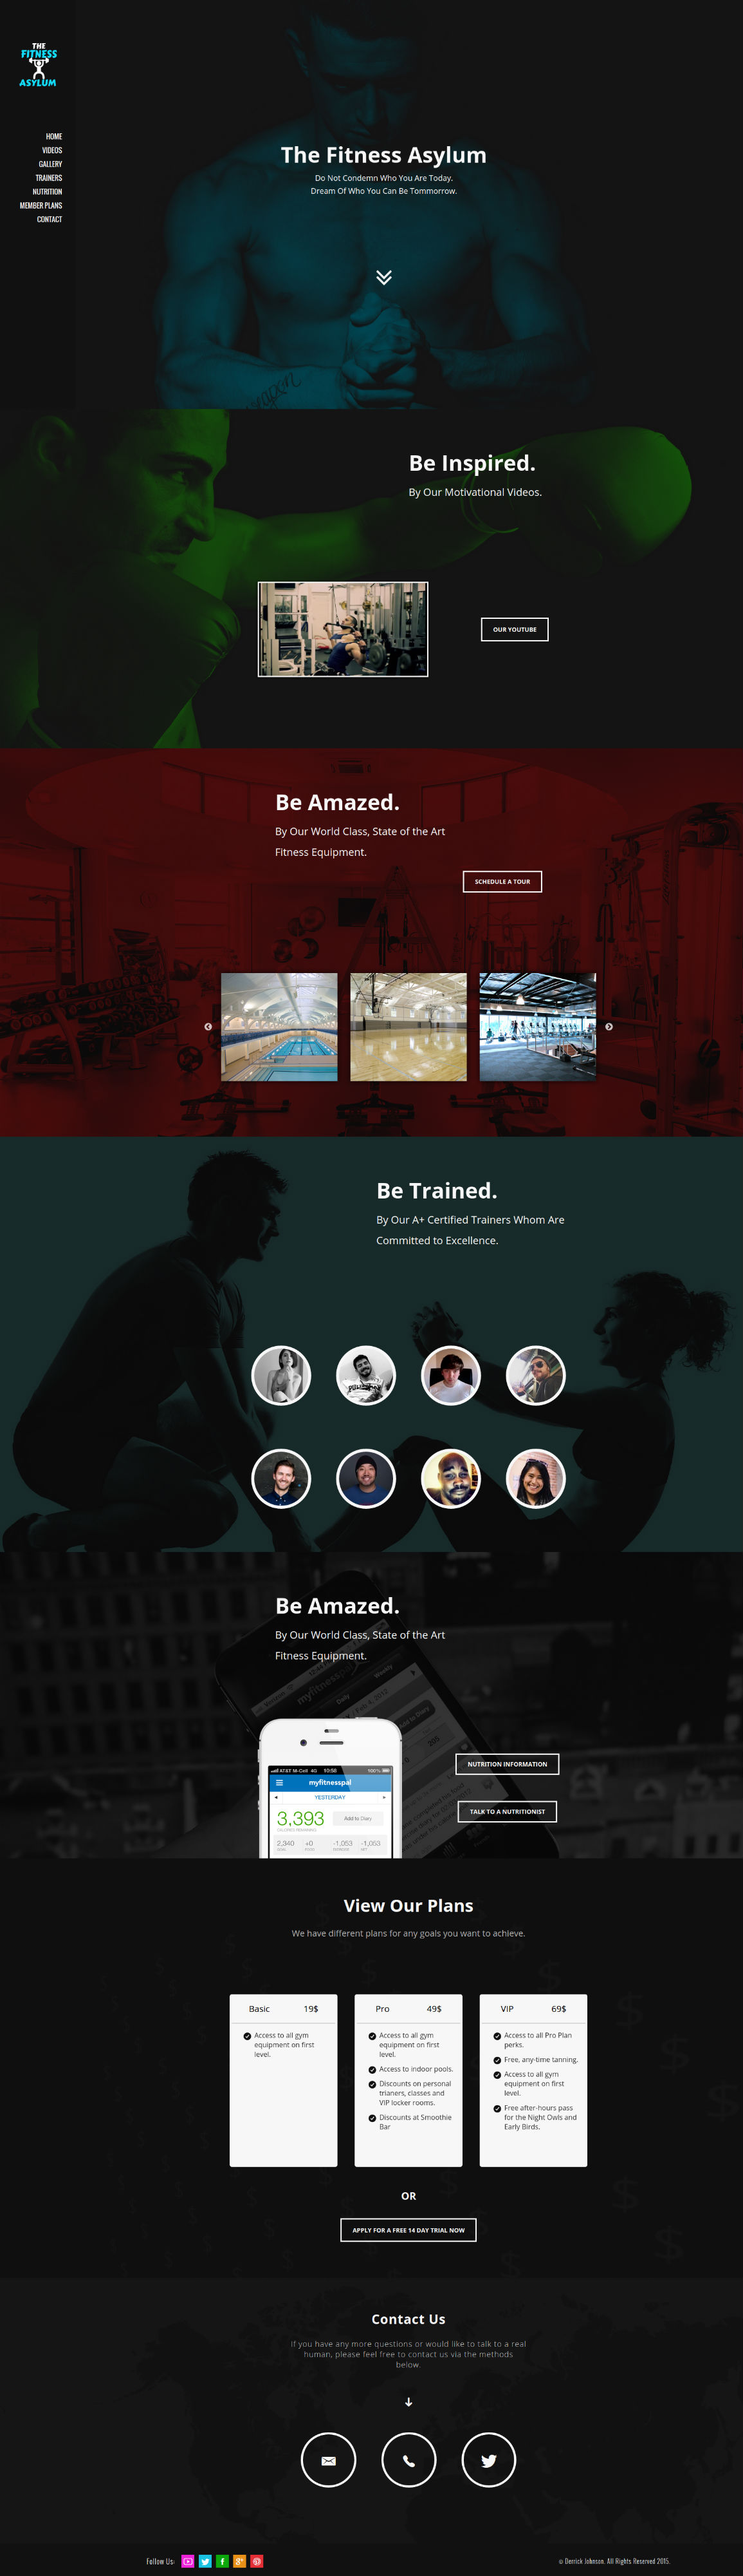
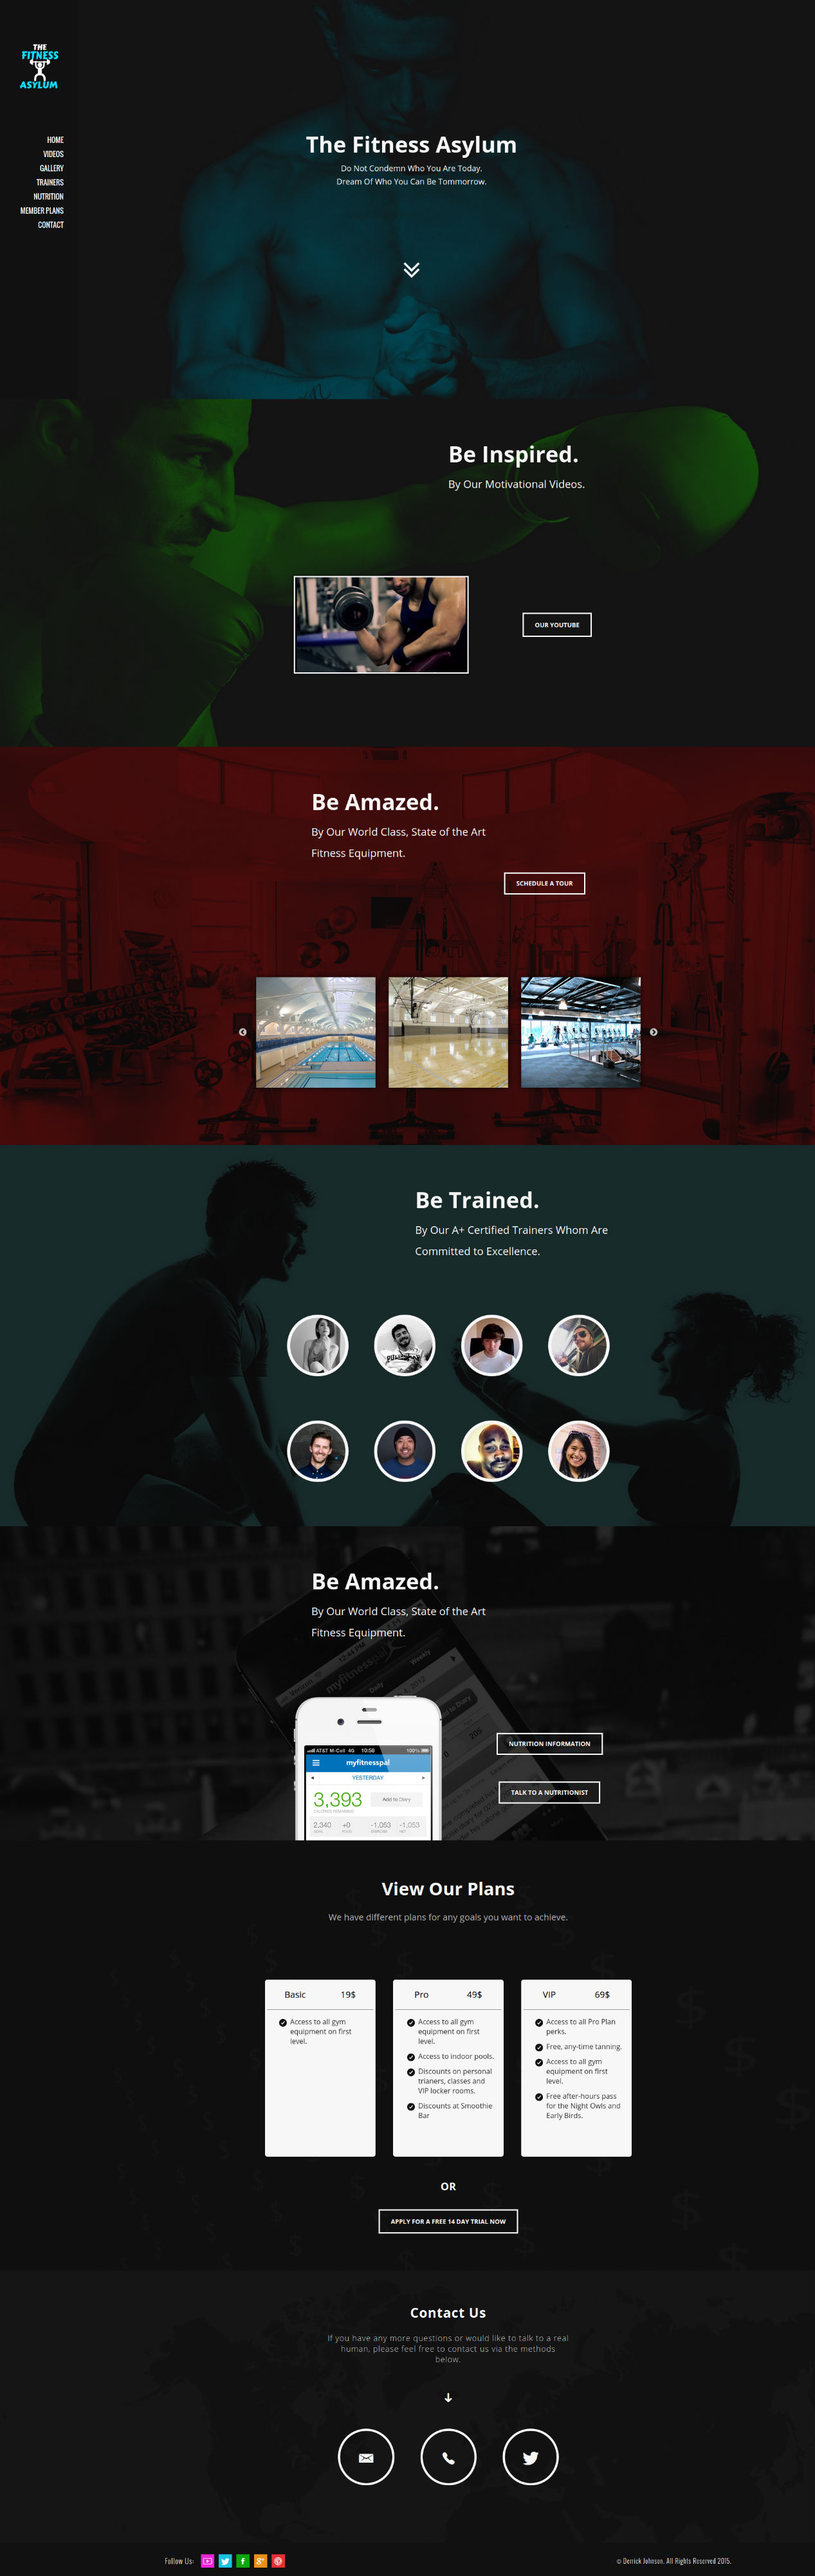
Added site picture in root folder

diff --git a/_site/assets/css/main.css b/_site/assets/css/main.css
@@ -466,7 +466,8 @@ th {
     width: 175px;
     background-color: #111;
     height: 100vh;
-    overflow: auto; }
+    overflow: auto;
+    position: fixed; }
     #home #nav .logo {
       margin: 0 auto;
       background: url(/assets/images/logos/fa-logo.png) center center no-repeat;
@@ -637,7 +638,7 @@ th {
     width: 110%; }
   #trainers .title {
     text-align: left;
-    padding: 100px 0 100px 350px;
+    padding: 100px 0 50px 350px;
     color: #f7f7f7;
     font-family: "Open Sans";
     margin: 0 auto;
@@ -661,7 +662,7 @@ th {
     justify-content: space-between;
     width: 750px;
     flex-wrap: wrap;
-    margin: 100px auto 0; }
+    margin: 50px auto 0; }
     #trainers .trainer-container .trainer-unit {
       margin: 0 10px 100px;
       background-size: cover;

diff --git a/assets/css/sections/_trainers.sass b/assets/css/sections/_trainers.sass
@@ -9,7 +9,7 @@
 	.title
 		
 		text-align: left
-		padding: 100px 0 100px 350px
+		padding: 100px 0 50px 350px
 		color: #f7f7f7
 		font-family: 'Open Sans'
 		margin: 0 auto
@@ -37,7 +37,7 @@
 		justify-content: space-between
 		width: 750px
 		flex-wrap: wrap
-		margin: 100px auto 0
+		margin: 50px auto 0
 
 		.trainer-unit
 			margin: 0 10px 100px

diff --git a/assets/css/sections/_header.sass b/assets/css/sections/_header.sass
@@ -35,7 +35,7 @@
 		background-color: #111
 		height: 100vh
 		overflow: auto
-		// position: fixed
+		position: fixed
 
 		.logo
 			margin: 0 auto
